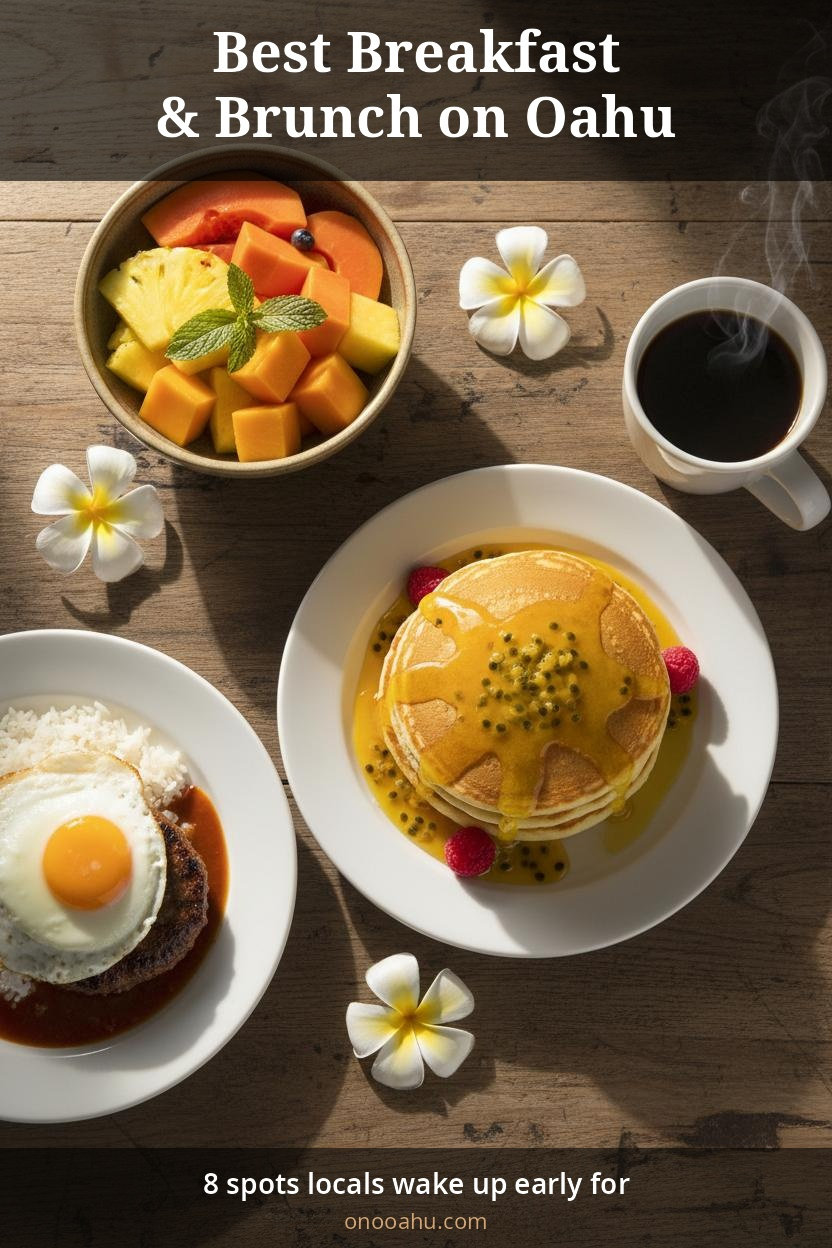
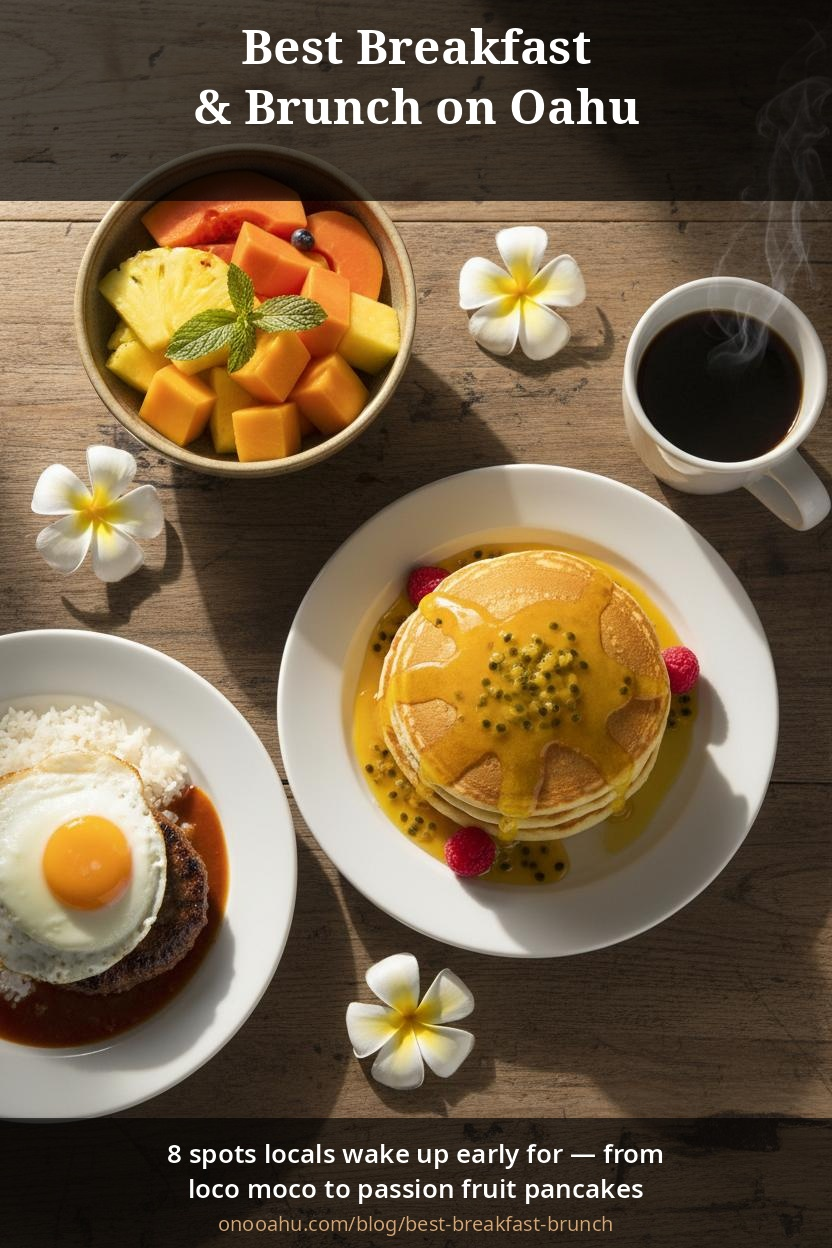
Add 10 new restaurants: Kono's, Banzai Sushi, Mei Sum, Matsumoto, Ted's, Seven Brothers, Kamehameha Bakery, Alicia's Market, Farm to Barn, Haleiwa Beach House

Changed region(s): [[0.0, 0.0, 1.0, 0.1875], [0.0, 0.875, 1.0, 1.0]]

diff --git a/src/data/restaurants.ts b/src/data/restaurants.ts
@@ -622,6 +622,156 @@ export const restaurants: Restaurant[] = [
     image: '/images/bevy.jpg',
     tags: ['craft cocktails', 'oysters', 'happy hour', 'patio', 'Kakaako'],
   },
+  {
+    id: 'konos-northshore',
+    name: "Kono's Northshore",
+    neighborhood: 'North Shore',
+    category: 'Plate Lunch Legends',
+    rating: 4.6,
+    price: '$',
+    description: "A North Shore institution since 2002, Kono's has built its reputation on one thing: 12-hour slow-roasted kalua pig. The result is melt-in-your-mouth tender pork that's packed into massive breakfast bombers — burritos stuffed with eggs, breakfast potatoes, cheese, and that famous kalua pig. The fast-casual spot is a post-surf staple for locals and a must-visit for anyone driving the Kamehameha Highway. No reservations needed — order at the counter and grab a seat.",
+    address: '66-250 Kamehameha Hwy, Haleiwa, HI 96712',
+    phone: '(808) 744-6705',
+    hours: 'Daily: 7AM-7PM',
+    mustTry: ['Breakfast Bomber', 'Kalua Pig Plate', 'Kalua Pig Sandwich'],
+    image: '/images/konos-northshore.jpg',
+    tags: ['plate lunch', 'kalua pig', 'breakfast', 'local', 'takeout', 'North Shore'],
+  },
+  {
+    id: 'banzai-sushi',
+    name: 'Banzai Sushi Bar',
+    neighborhood: 'North Shore',
+    category: 'Japanese',
+    rating: 4.5,
+    price: '$$$',
+    description: "Named best sushi by the American Tasting Institute, Banzai Sushi is the North Shore's premier destination for fresh, locally sourced Japanese cuisine. Chef Hide is obsessive about quality, serving up pristine sashimi, creative specialty rolls, and dishes that extend well beyond the sushi bar — think Wagyu beef, tempura, and seared furikake ahi. The intimate Haleiwa space fills up fast; arrive early to put your name on the waitlist and explore the surrounding plaza.",
+    address: '66-246 Kamehameha Hwy, Haleiwa, HI 96712',
+    phone: '(808) 451-2699',
+    hours: 'Wed-Sun: 4PM-9PM (Mon-Tue: Closed)',
+    mustTry: ['Pipeline Sashimi Combo', 'Wagyu Beef', 'Seared Furikake Ahi', 'Wabi Sabi Roll'],
+    image: '/images/banzai-sushi.jpg',
+    tags: ['sushi', 'sashimi', 'Japanese', 'fresh fish', 'North Shore', 'dinner'],
+  },
+  {
+    id: 'mei-sum-dimsum',
+    name: 'Mei Sum Dim Sum',
+    neighborhood: 'Chinatown',
+    category: 'Hidden Gems',
+    rating: 4.4,
+    price: '$',
+    description: "A Chinatown reader favorite and Honolulu Magazine's top dim sum pick, Mei Sum serves classic Cantonese dim sum all day — no cart service needed, just order at the counter and eat. The har gow are plump with sweet shrimp, the siu mai are juicy and packed with pork, and the baked char siu bao arrive warm from the oven with caramelized BBQ pork filling. A family-run spot that's been a Chinatown staple for decades, now located on Nuuanu Avenue.",
+    address: '1170 Nuuanu Ave, Honolulu, HI 96817',
+    phone: '(808) 531-3268',
+    hours: 'Daily: 8AM-8PM',
+    mustTry: ['Har Gow', 'Siu Mai', 'Baked Char Siu Bao', 'Egg Tarts', 'Mochi Rice'],
+    image: '/images/mei-sum-dimsum.jpg',
+    tags: ['dim sum', 'Chinese', 'Cantonese', 'takeout', 'cheap eats', 'Chinatown', 'all day'],
+  },
+  {
+    id: 'matsumoto-shaveice',
+    name: "Matsumoto Shave Ice",
+    neighborhood: 'North Shore',
+    category: 'Hidden Gems',
+    rating: 4.5,
+    price: '$',
+    description: "Since 1951, Matsumoto Shave Ice has been the definitive North Shore refreshment stop. What started as a grocery store in Haleiwa has become an iconic destination, serving fluffy, finely shaved ice drenched in vibrant house-made syrups. Locals know to add ice cream at the bottom and condensed milk on top (a 'snow cap') for the full experience. The line often wraps around the block, but it moves quickly — and that first bite of lilikoi or mango shave ice after a hot day at the beach is pure Hawaii.",
+    address: '66-111 Kamehameha Hwy, Haleiwa, HI 96712',
+    phone: '(808) 637-4827',
+    hours: 'Daily: 9AM-6PM',
+    mustTry: ['Lilikoi Shave Ice', 'Mango Shave Ice', 'Matsumoto Special (with ice cream)', 'Snow Cap'],
+    image: '/images/matsumoto-shaveice.jpg',
+    tags: ['shave ice', 'dessert', 'local', 'cheap eats', 'North Shore', 'iconic'],
+  },
+  {
+    id: 'teds-bakery',
+    name: "Ted's Bakery",
+    neighborhood: 'North Shore',
+    category: 'Hidden Gems',
+    rating: 4.4,
+    price: '$',
+    description: "Located just off the highway near Sunset Beach, Ted's Bakery is a North Shore institution famous for one thing: the chocolate haupia cream pie. Layers of chocolate pudding, haupia (coconut pudding), and whipped cream on a flaky crust — it's the dessert that launched a thousand food blog posts. But Ted's is more than pie: they serve solid plate lunches, breakfast fried rice, and garlic shrimp plates that fuel surfers between sessions. Grab a slice and eat it on the beach across the street.",
+    address: '59-024 Kamehameha Hwy, Haleiwa, HI 96712',
+    phone: '(808) 638-8207',
+    hours: 'Daily: 7AM-6:30PM',
+    mustTry: ['Chocolate Haupia Cream Pie', 'Garlic Shrimp Plate', 'Fried Rice Special', 'Haupia Pie'],
+    image: '/images/teds-bakery.jpg',
+    tags: ['bakery', 'pie', 'dessert', 'plate lunch', 'North Shore', 'cheap eats', 'iconic'],
+  },
+  {
+    id: 'seven-brothers',
+    name: 'Seven Brothers',
+    neighborhood: 'North Shore',
+    category: 'Hidden Gems',
+    rating: 4.3,
+    price: '$',
+    description: "A family-owned burger empire run by — you guessed it — seven brothers, this North Shore staple started at the Kahuku Sugar Mill in 2009 and has since expanded across the island. The burgers are juicy and oversized, topped with creative combinations like coconut macadamia shrimp, teriyaki pineapple, and house-made sauces. The coconut chocolate chip banana bread is legendary in its own right. The Kahuku at the Mill location has the biggest menu and the most atmosphere — post up after a day at the beach.",
+    address: '66-197 Kamehameha Hwy, Haleiwa, HI 96712',
+    phone: '(808) 744-3000',
+    hours: 'Mon-Sat: 11AM-9PM (Sun: Closed)',
+    mustTry: ['The Original Burger', 'Coconut Macadamia Shrimp Burger', 'Coconut Chocolate Chip Banana Bread'],
+    image: '/images/seven-brothers.jpg',
+    tags: ['burgers', 'family-owned', 'local', 'North Shore', 'cheap eats', 'casual'],
+  },
+  {
+    id: 'kamehameha-bakery',
+    name: 'Kamehameha Bakery',
+    neighborhood: 'Kalihi',
+    category: 'Hidden Gems',
+    rating: 4.5,
+    price: '$',
+    description: "A Kalihi institution that opens at 2 AM to serve the early-risers and night-owls alike, Kamehameha Bakery is famous for one extraordinary creation: the Poi Haupia. This fluffy, bright purple taro bun is filled with creamy coconut pudding, creating a handheld masterpiece that's simultaneously unique to Hawaii and utterly addictive. The bakery case also overflows with sweet bread, banana bread, danishes, and pan de coco. Cash only, no seating — grab a few and go.",
+    address: '1284 Kalani St #D106, Honolulu, HI 96817',
+    phone: '(808) 845-5831',
+    hours: 'Mon-Fri: 2AM-4PM, Sat-Sun: 3AM-4PM',
+    mustTry: ['Poi Haupia', 'Sweet Bread', 'Banana Bread', 'Pan de Coco'],
+    image: '/images/kamehameha-bakery.jpg',
+    tags: ['bakery', 'local', 'cheap eats', 'Kalihi', 'late night', 'cash only', 'iconic'],
+  },
+  {
+    id: 'alicias-market',
+    name: "Alicia's Market",
+    neighborhood: 'Kalihi',
+    category: 'Hidden Gems',
+    rating: 4.6,
+    price: '$',
+    description: "Tucked away on a quiet Kalihi street, Alicia's Market is the definition of a local secret. This small takeout counter serves some of the best poke on the island — spicy ahi, shoyu ahi, and their signature pipikaula (dried beef) are standouts. The plate lunches are generous and affordable, with crispy pork belly, garlic chicken, and a rotating selection of daily specials. Recently moved back to its original Mokauea Street location after a brief relocation. No frills, just incredible food.",
+    address: '267 Mokauea St, Honolulu, HI 96819',
+    phone: '(808) 841-1922',
+    hours: 'Tue-Sat: 8AM-4PM (Sun-Mon: Closed)',
+    mustTry: ['Spicy Ahi Poke', 'Pipikaula', 'Crispy Pork Belly Plate', 'Garlic Chicken'],
+    image: '/images/alicias-market.jpg',
+    tags: ['poke', 'plate lunch', 'local', 'Kalihi', 'takeout', 'cheap eats', 'hidden gem'],
+  },
+  {
+    id: 'farm-to-barn',
+    name: 'Farm to Barn',
+    neighborhood: 'North Shore',
+    category: 'Hidden Gems',
+    rating: 4.4,
+    price: '$$',
+    description: "A charming red barn cafe in the heart of Haleiwa, Farm to Barn lives up to its name with a menu built around fresh, local ingredients and plant-forward options. The barn burritos, uala (sweet potato) waffles, and vibrant grain bowls are popular with health-conscious locals and visitors alike. The outdoor seating area — complete with picnic tables, lawn games, and a relaxed country atmosphere — makes it a favorite for families. The attached juicery serves fresh-pressed juices and smoothies that pair perfectly with a North Shore morning.",
+    address: '66-443 Kamehameha Hwy, Haleiwa, HI 96712',
+    phone: '(808) 744-4100',
+    hours: 'Daily: 7AM-4PM',
+    mustTry: ['Barn Burrito', 'Uala Waffles', 'Grain Bowl', 'Fresh-Pressed Juice'],
+    image: '/images/farm-to-barn.jpg',
+    tags: ['healthy', 'cafe', 'breakfast', 'juicery', 'North Shore', 'family-friendly', 'outdoor seating'],
+  },
+  {
+    id: 'haleiwa-beach-house',
+    name: 'Haleiwa Beach House',
+    neighborhood: 'North Shore',
+    category: 'Beachfront Dining',
+    rating: 4.2,
+    price: '$$$',
+    description: "A stunning two-story oceanfront restaurant in Haleiwa, Haleiwa Beach House serves contemporary Hawaiian seafood with panoramic Pacific views. The menu focuses on fresh island fish, locally sourced produce, and Hawaiian-influenced preparations — think macadamia nut-crusted catch, Kona lobster tail, and grilled monchong. The upstairs dining room and wraparound lanai are ideal for sunset dinners, while the downstairs bar offers a more casual vibe with craft cocktails and pupu plates. Reservations recommended for dinner.",
+    address: '62-540 Kamehameha Hwy, Haleiwa, HI 96712',
+    phone: '(808) 637-9898',
+    hours: 'Daily: 11AM-9PM (Fri-Sat until 10PM)',
+    mustTry: ['Macadamia Nut-Crusted Fish', 'Kona Lobster Tail', 'Grilled Monchong', 'Haleiwa Sunset Cocktail'],
+    image: '/images/haleiwa-beach-house.jpg',
+    tags: ['seafood', 'Hawaiian', 'oceanfront', 'sunset', 'North Shore', 'dinner', 'reservations'],
+  },
 ];
 
 export const collections = [
@@ -630,7 +780,7 @@ export const collections = [
   title: 'Beachfront Dining',
   description: 'The best restaurants on Oahu where the sand meets your table. From casual barefoot bars to upscale oceanfront dining, these spots offer unforgettable meals with Pacific views.',
   image: '/images/collection-beachfront.jpg',
-  count: 13,
+  count: 14,
   filter: (r: Restaurant) => r.category === 'Beachfront Dining',
   },
   {
@@ -638,7 +788,7 @@ export const collections = [
   title: 'Hidden Gems',
   description: 'Off-the-beaten-path spots that locals guard jealously. James Beard winners, tiny takeout counters, and neighborhood secrets that define real Hawaiian food culture.',
   image: '/images/collection-hidden.jpg',
-  count: 11,
+  count: 18,
   filter: (r: Restaurant) => r.category === 'Hidden Gems',
   },
   {
@@ -646,7 +796,7 @@ export const collections = [
   title: 'Plate Lunch Legends',
   description: 'The backbone of Hawaiian comfort food — two scoops rice, one scoop mac salad, and your choice of protein. These are the iconic spots that perfected the plate lunch.',
   image: '/images/collection-plate.jpg',
-  count: 10,
+  count: 11,
   filter: (r: Restaurant) => r.category === 'Plate Lunch Legends',
   },
   {
@@ -662,7 +812,7 @@ export const collections = [
   title: 'Japanese',
   description: 'From hand-pulled udon noodles to 10-seat omakase counters, Oahu\'s Japanese food scene rivals Tokyo\'s. These spots serve the freshest sashimi, crispiest tonkatsu, and most precise sushi on the island.',
   image: '/images/hero-card-2.jpg',
-  count: 3,
+  count: 4,
   filter: (r: Restaurant) => r.category === 'Japanese',
   },
   {

diff --git a/src/sections/Neighborhoods.tsx b/src/sections/Neighborhoods.tsx
@@ -7,8 +7,8 @@ gsap.registerPlugin(ScrollTrigger);
 
 const neighborhoods = [
   { name: 'Waikiki', count: 10, slug: 'waikiki', image: '/images/neighborhood-waikiki.jpg' },
-  { name: 'North Shore', count: 2, slug: 'north-shore', image: '/images/neighborhood-northshore.jpg' },
-  { name: 'Chinatown', count: 4, slug: 'chinatown', image: '/images/neighborhood-chinatown.jpg' },
+  { name: 'North Shore', count: 9, slug: 'north-shore', image: '/images/neighborhood-northshore.jpg' },
+  { name: 'Chinatown', count: 5, slug: 'chinatown', image: '/images/neighborhood-chinatown.jpg' },
   { name: "Kaka'ako", count: 5, slug: 'kakaako', image: '/images/neighborhood-kakaako.jpg' },
   { name: 'Kaimuki', count: 6, slug: 'kaimuki', image: '/images/neighborhood-kaimuki.jpg' },
   { name: 'Windward Coast', count: 3, slug: 'windward-coast', image: '/images/neighborhood-windward.jpg' },
